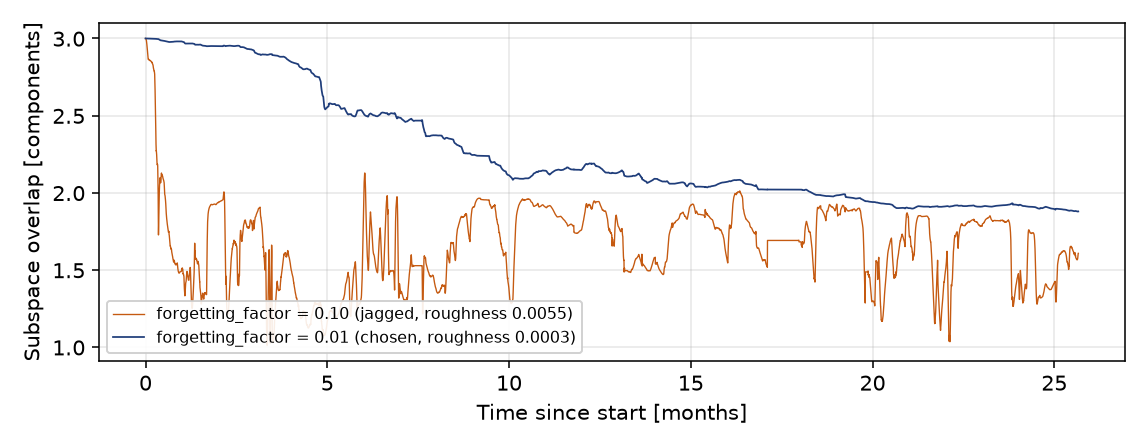
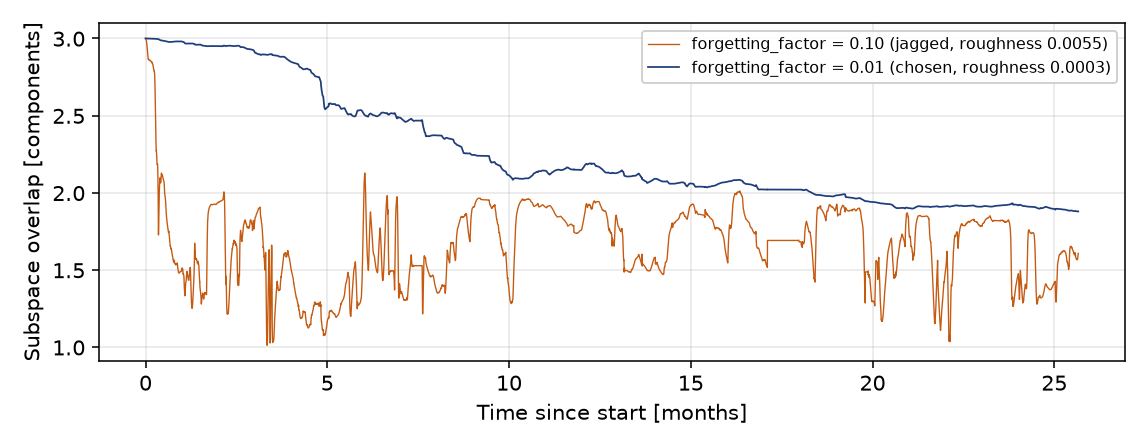
Adaptive soft-sensor figures: reposition two legends
- Monitoring figure: lift the single "Lab sample" legend above the top panel so
  it no longer overlaps the row of lab-sample asterisks (which spans the full
  width at the top of the panel).
- Distance-roughness figure: move the legend to the top right, into the clear
  band above the two declining traces.

Claude-Session: https://claude.ai/code/session_01YQ4kBqpph4HgRfbDS3t3fJ

Changed region(s): [[0.0915, 0.6562, 0.5183, 0.8125], [0.5488, 0.0625, 0.9756, 0.1875]]

diff --git a/monitoring/adaptive-softsensor-figures.py b/monitoring/adaptive-softsensor-figures.py
@@ -172,7 +172,9 @@ def main(out_dir: Path) -> None:  # noqa: PLR0915
     a1.set_ylim(0, 3 * t2_lim)
     a1.set_ylabel("Hotelling's $T^2$")
     a1.set_title("99% limits", fontsize=10)
-    a1.legend(loc="upper right", fontsize=8)
+    # lift the single-entry legend just above the panel so it clears the lab-sample asterisks
+    a1.legend(loc="lower right", bbox_to_anchor=(1.0, 1.0), borderaxespad=0.2,
+              fontsize=8, framealpha=0.9)
     a2.plot(month, static_spe, lw=0.5, color=DARK_BLUE)
     a2.axhline(spe_lim, color="k", lw=1)
     a2.plot(lab_month, np.full_like(lab_month, 20.0), "*", ms=5, color=ORANGE)

diff --git a/monitoring/adaptive-softsensor-sensitivity.py b/monitoring/adaptive-softsensor-sensitivity.py
@@ -152,7 +152,7 @@ def main(out_dir: Path) -> None:  # noqa: PLR0915, C901
     ax.plot(month, d_ok, lw=0.9, color=DARK_BLUE, label=f"forgetting_factor = 0.01 (chosen, roughness {r_ok:.4f})")
     ax.set_xlabel("Time since start [months]")
     ax.set_ylabel("Subspace overlap [components]")
-    ax.legend(loc="lower left", fontsize=8, framealpha=0.9)
+    ax.legend(loc="upper right", fontsize=8, framealpha=0.9)
     fig.tight_layout()
     fig.savefig(out_dir / "adaptive-softsensor-distance-roughness.png")
     plt.close(fig)
